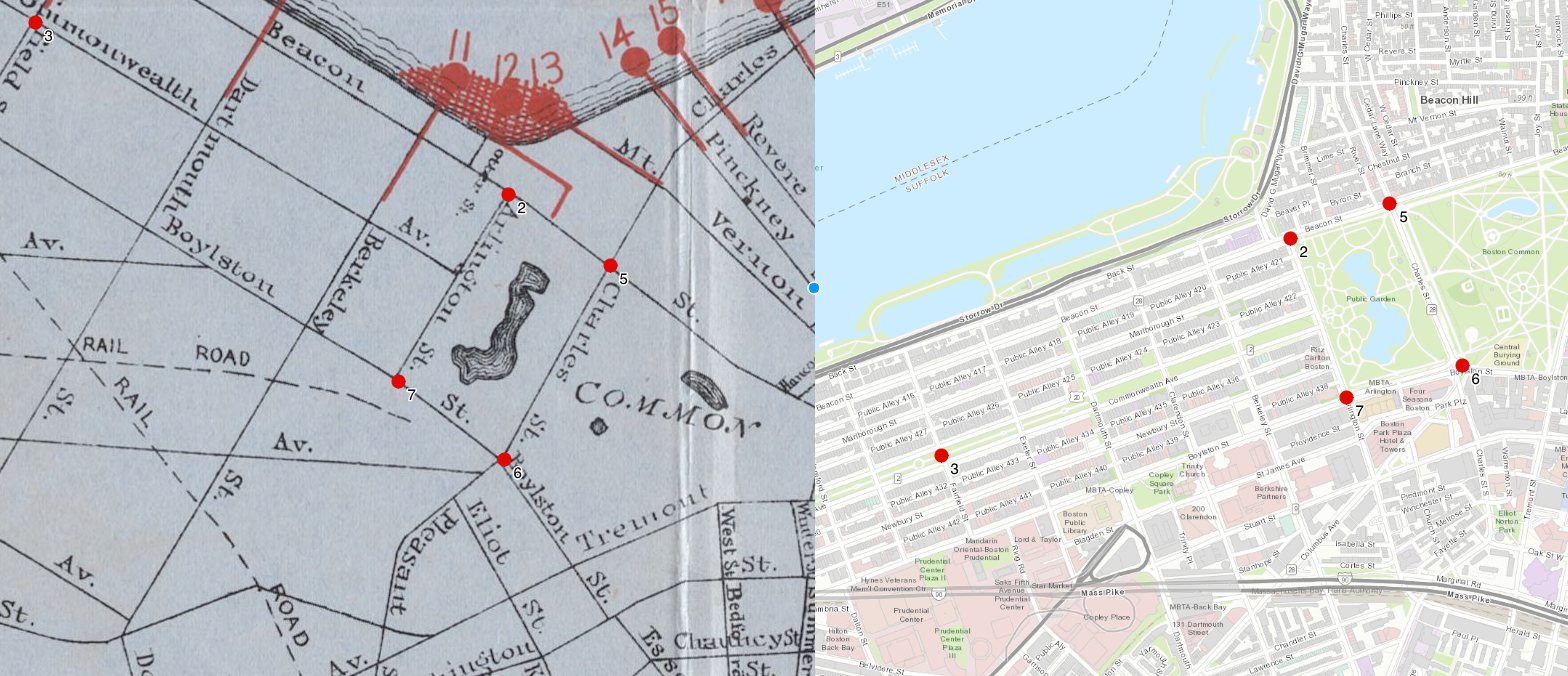
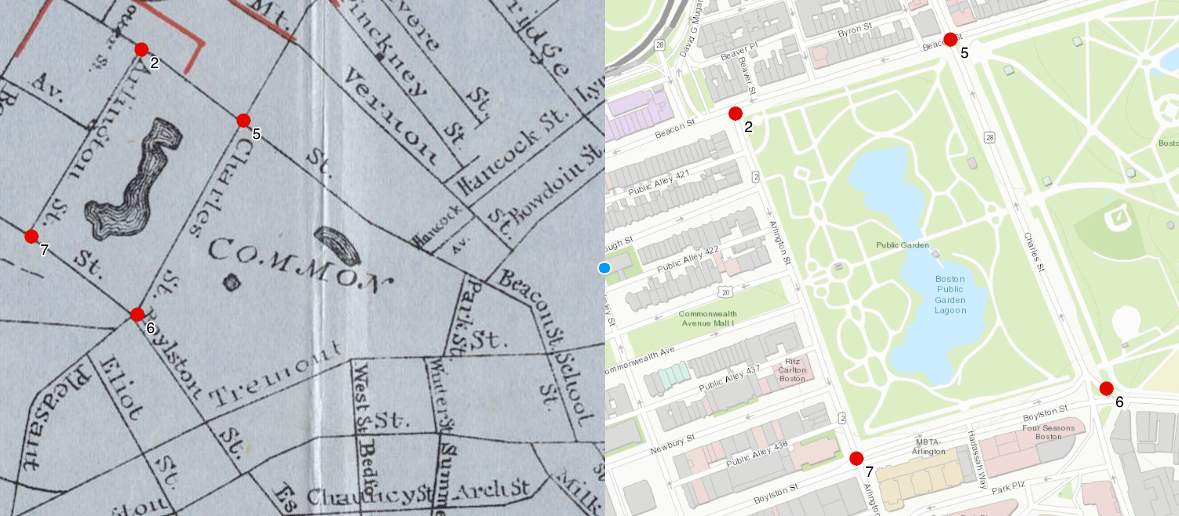
updated georeferencing guide

diff --git a/guides/georeference.md b/guides/georeference.md
@@ -6,15 +6,29 @@ sidebar: auto
 
 ## Background Information
 
-Georeferencing is the process of matching a digital cartographic image file to real-life geography, by adding ground control points (GCP's). A GCP is simply a latitude-longiture pair that a computer can use to associate pixel space in an image with geographic space in a modern web map.
+Georeferencing is the process of matching a digital cartographic image file to real-life geography, by adding ground control points (GCP's).
 
-For example, 
+A GCP is simply a point that the computer will use to associate pixel space in an image with geographic space in a modern web map.
 
-![ground control points](./gcp.png)
+For example, in the screenshot below, GCP's are pictured in red. The numbers associated with each GCP match the pixel space of a [scanned historic map](https://www.digitalcommonwealth.org/search/commonwealth:w3765q66z) (left) to the geographic space of a modern web map (right).
+
+|![ground control points](./media/gcp.png)
+|:--:|
+|*Image courtesy of Bert Spaan's [Allmaps editor](https://editor.allmaps.org/#/georeference?url=https%3A%2F%2Fwww.digitalcommonwealth.org%2Fsearch%2Fcommonwealth%3Aw3765q66z%2Fmanifest.json&image=P89G8PR8iGSTi87g)*
+
+After sufficient GCP's have been added, a user can view the historic map overlaid in geographic space:
+
+|![georeferenced map overlay](./media/georef-overlay.png)
+|:--:|
+|*Image courtesy of [Allmaps viewer](https://viewer.allmaps.org/#type=annotation&data=data:text/x-url,https%3A%2F%2Fannotations.allmaps.org%2Fmanifests%2F7S4FRft8JVytyhg5)*
 
 ## Georeferencing on the web
 
-Georeferencing can be a challenging process to carry out on the web, because it requires the creation and storage of very large file
+Georeferencing can be a challenging process to carry out on the web, because it requires the creation and storage of very large files called [GeoTIFFs](https://www.ogc.org/standards/geotiff). As such, many web georeferencers are costly proprietary softwares that aren't very accessible for everyday research use.
+
+Currently, the Leventhal Map & Education Center (LMEC) is working with Bert Spaan to support his ongoing development of the [Allmaps platform](https://allmaps.org/) for web georeferencing. Using the [international image interoperabilty framework](https://iiif.io/) (IIIF) and [WebGL](https://www.khronos.org/webgl/), Allmaps makes it easy to georeference any IIIF-compliant map in a web browser.
+
+Stay tuned for more information about how you can use Allmaps to georeference maps in the LMEC's collections, coming soon in **fall 2022**!
 
 ::: tip LMEC Map Warper
 The LMEC Map Warper, previously used for georeferencing maps in our digital collections, is no longer being supported. You can learn about how to extract LMEC Digital Collections in geospatial formats from the <a href ='./lmec-dc-geo.html'>LMEC Georeferenced Collections Guide.</a>
@@ -26,7 +40,7 @@ The Leventhal Map & Education Center, which undertakes many digital humanities p
 
 QGIS is a free desktop mapping software with a rich suite of functionalities. To get started with QGIS, please find the <a href ='./get-started-qgis/'>Get Started with QGIS Guide</a>.
 
-Once you have QGIS installed on your computer, you can georeference any map by following this <a target = "_blank" href ='https://www.qgistutorials.com/en/docs/georeferencing_basics.html'>Georeferencing Basics Tutorial</a>.
+Once you have QGIS installed on your computer, you can georeference any map by following this <a target = "_blank" href ='https://www.qgistutorials.com/en/docs/3/georeferencing_basics.html'>Georeferencing Basics Tutorial</a>.
 
 All you need to start georeferencing is an image file of the map you wish to georeference. The Leventhal Map & Education Center and Boston Public Library make all of their digital collections available to patrons at their highest available resolution. 
 

diff --git a/guides/allmaps-iiif.md b/guides/allmaps-iiif.md
@@ -1,0 +1,3 @@
+---
+sidebar: auto
+---
